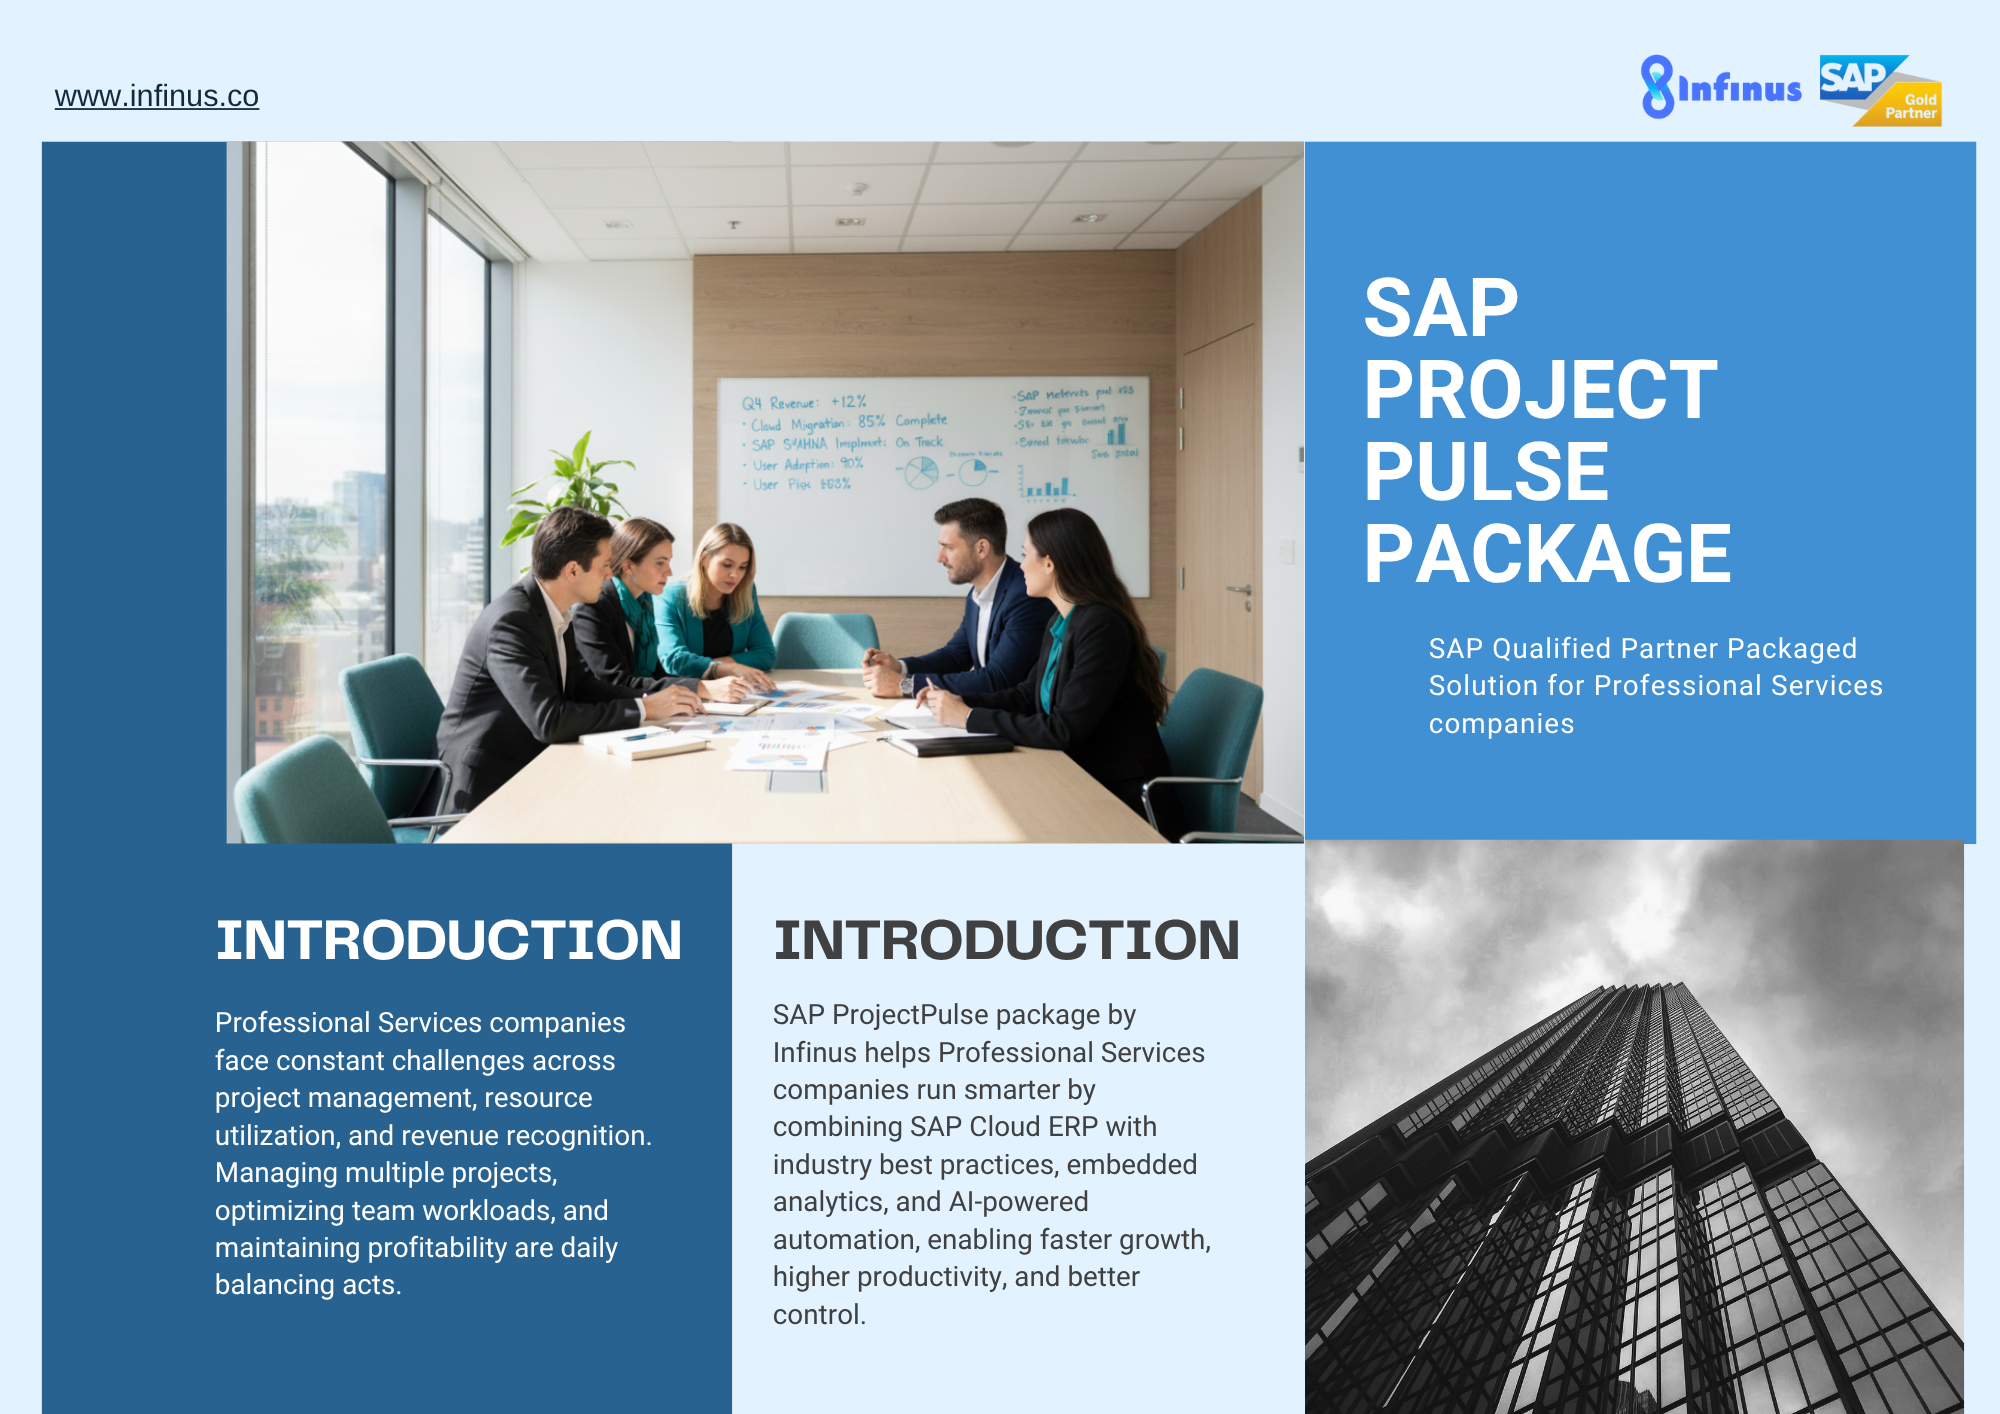
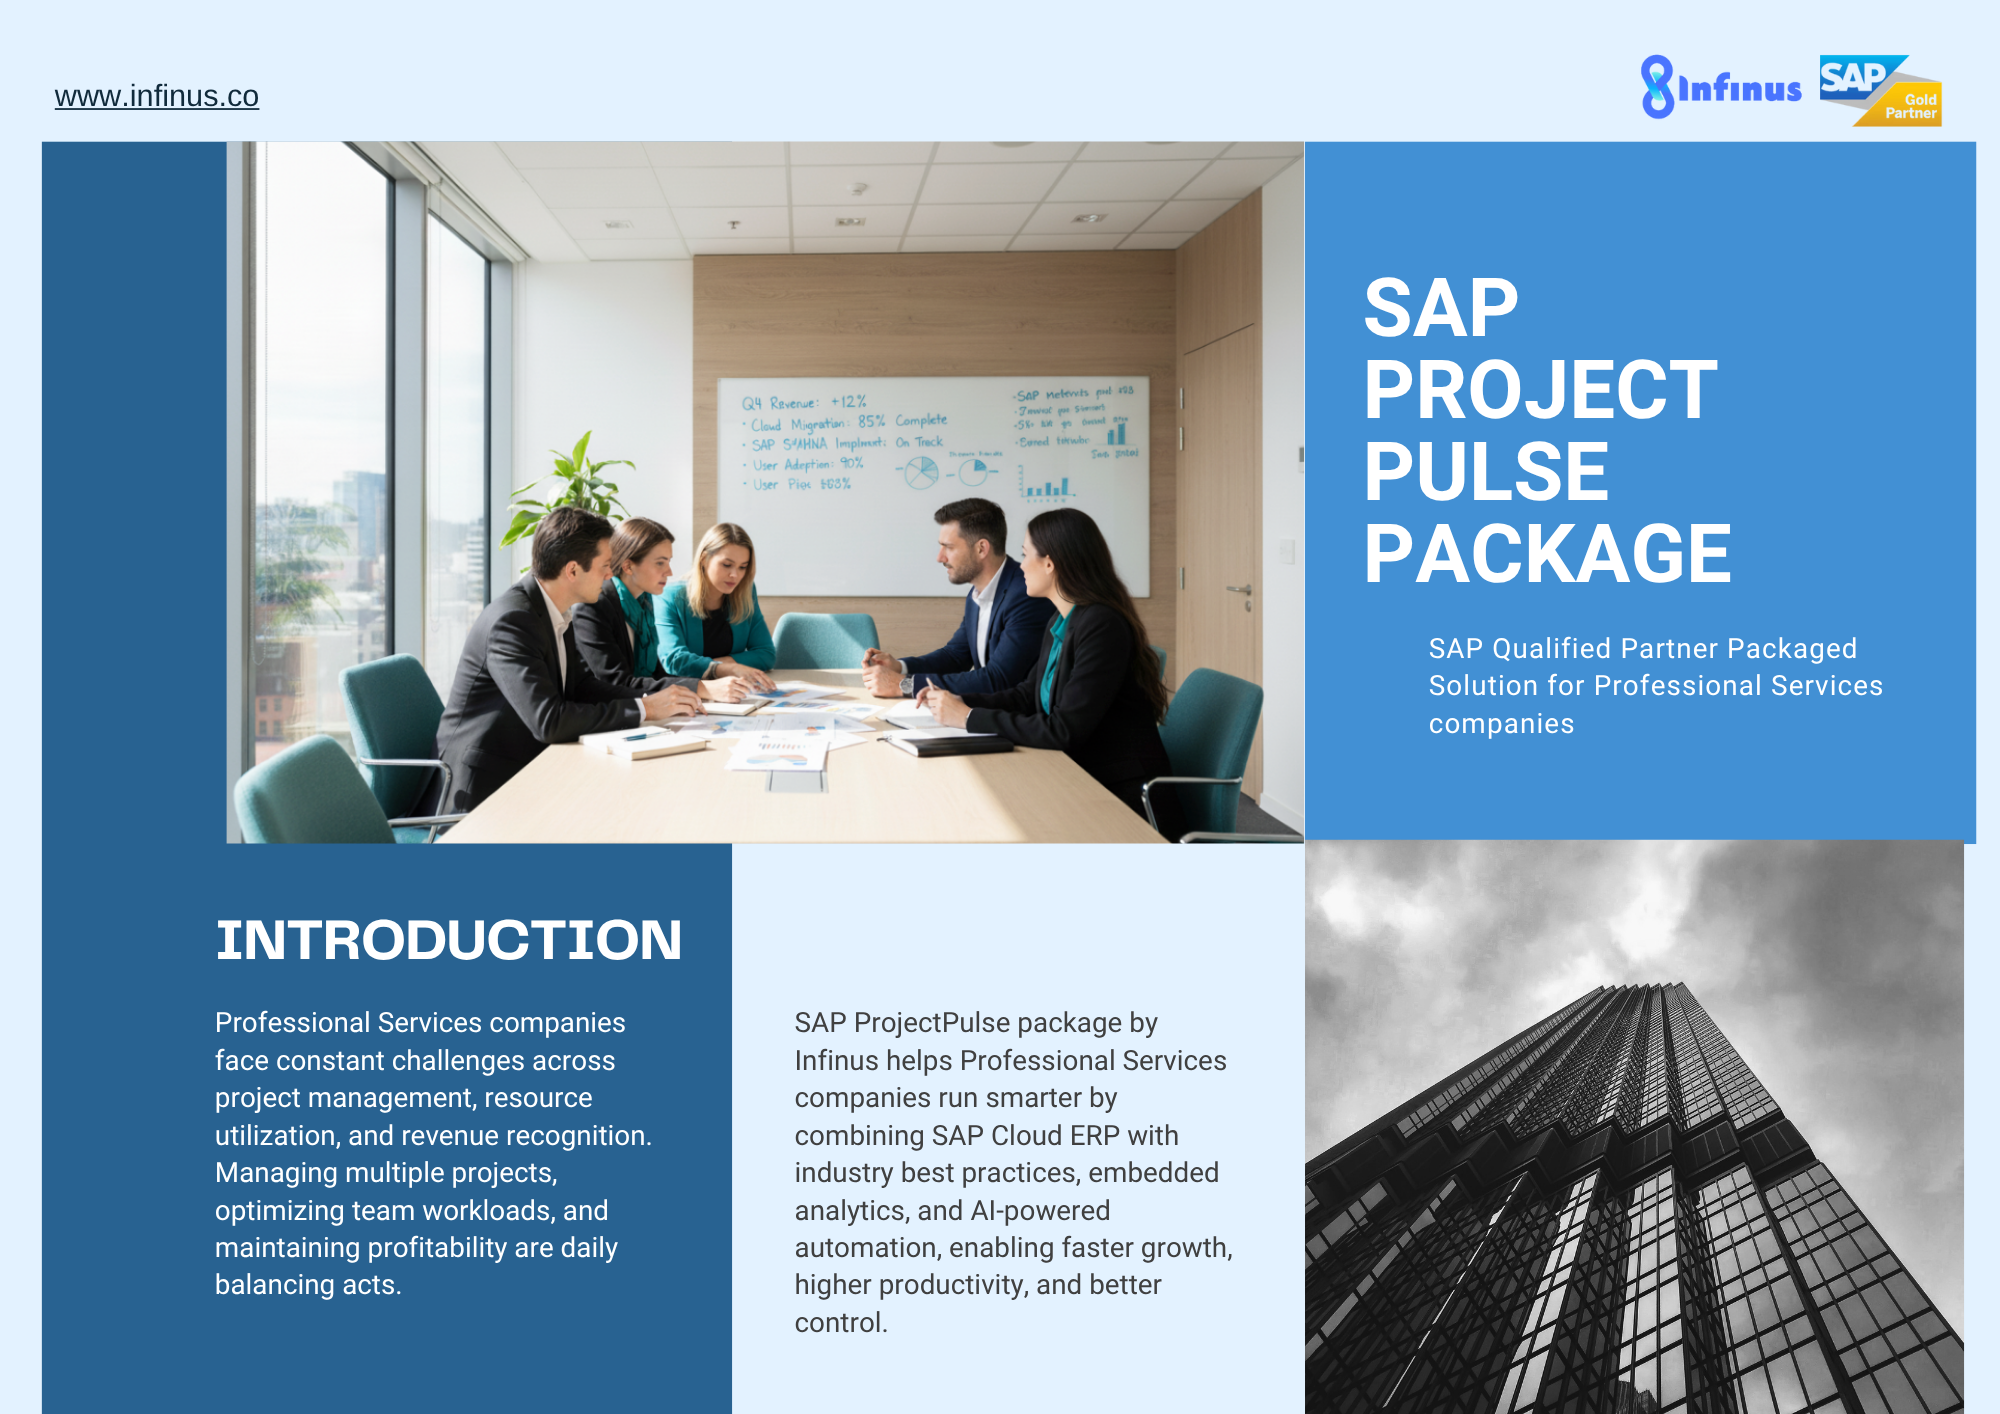
Update Project Pulse: implementation timeline 3-6 months, pricing from EUR 100,000, updated brochure images

Changed region(s): [[0.372, 0.7157, 0.62, 0.9646], [0.372, 0.6535, 0.62, 0.6846]]

diff --git a/app/(site)/projectpulse/brochure/page.tsx b/app/(site)/projectpulse/brochure/page.tsx
@@ -35,7 +35,7 @@ const ProjectPulseBrochurePage = () => {
               </p>
               <div className="mt-6 flex flex-wrap items-center gap-3 text-[11px] text-slate-300">
                 <span className="rounded-full border border-emerald-400/40 bg-emerald-400/10 px-3 py-1">
-                  4–6 month implementation
+                  3–6 month implementation
                 </span>
                 <span className="rounded-full border border-slate-700 bg-slate-900/70 px-3 py-1">
                   500+ prebuilt KPIs &amp; dashboards
@@ -307,13 +307,13 @@ const ProjectPulseBrochurePage = () => {
                 Time-to-value and commercial model
               </h2>
               <p className="mt-3 text-sm text-slate-300">
-                A prescriptive 4–6-month implementation accelerates time-to-value, with a clearly
+                A prescriptive 3–6-month implementation accelerates time-to-value, with a clearly
                 defined base scope and extensions.
               </p>
               <div className="mt-5 grid gap-3 text-xs text-slate-200">
                 <div className="flex items-center justify-between rounded-xl bg-slate-950/80 px-4 py-3">
                   <span className="text-slate-400">Project duration</span>
-                  <span className="font-semibold text-emerald-300">4–6 months</span>
+                  <span className="font-semibold text-emerald-300">3–6 months</span>
                 </div>
                 <div className="flex items-center justify-between rounded-xl bg-slate-950/80 px-4 py-3">
                   <span className="text-slate-400">Cloud subscriptions (from)</span>
@@ -321,7 +321,7 @@ const ProjectPulseBrochurePage = () => {
                 </div>
                 <div className="flex items-center justify-between rounded-xl bg-slate-950/80 px-4 py-3">
                   <span className="text-slate-400">Implementation services (from)</span>
-                  <span className="font-semibold text-emerald-300">€120,000</span>
+                  <span className="font-semibold text-emerald-300">from EUR 100,000</span>
                 </div>
               </div>
               <p className="mt-3 text-[11px] text-slate-500">

diff --git a/app/(site)/projectpulse/_components/ProjectPulseContent.tsx b/app/(site)/projectpulse/_components/ProjectPulseContent.tsx
@@ -24,7 +24,7 @@ const faqItems = [
   },
   {
     question: "How long does implementation take and what is the expected outcome?",
-    answer: "A prescriptive 4 to 6 month implementation accelerates time to value. Net result: real-time projects, aligned resources and predictable margins on a single intelligent cloud platform."
+    answer: "A prescriptive 3 to 6 month implementation accelerates time to value. Net result: real-time projects, aligned resources and predictable margins on a single intelligent cloud platform."
   }
 ];
 
@@ -124,7 +124,7 @@ export function ProjectPulseContent() {
                 Base Scope Coverage
               </h3>
               <p>
-                The base scope covers Finance (AR/AP, closing, treasury, profitability, consolidation), Customer Projects & Billing, Sourcing & Procurement, Sales of Services, SuccessFactors Employee Central, Integration Suite, DRC localizations, and embedded analytics. A prescriptive 4–6-month implementation accelerates time-to-value, with optional extensions (e.g., Sales Cloud, additional SuccessFactors modules) for scale-up.
+                The base scope covers Finance (AR/AP, closing, treasury, profitability, consolidation), Customer Projects & Billing, Sourcing & Procurement, Sales of Services, SuccessFactors Employee Central, Integration Suite, DRC localizations, and embedded analytics. A prescriptive 3–6-month implementation accelerates time-to-value, with optional extensions (e.g., Sales Cloud, additional SuccessFactors modules) for scale-up.
               </p>
             </motion.div>
 

diff --git a/app/(site)/projectpulse/page.tsx b/app/(site)/projectpulse/page.tsx
@@ -32,7 +32,7 @@ const faqItems = [
   },
   {
     question: "How long does implementation take and what is the expected outcome?",
-    answer: "A prescriptive 4 to 6 month implementation accelerates time to value. Net result: real-time projects, aligned resources and predictable margins on a single intelligent cloud platform.",
+    answer: "A prescriptive 3 to 6 month implementation accelerates time to value. Net result: real-time projects, aligned resources and predictable margins on a single intelligent cloud platform.",
   },
 ];
 

diff --git a/app/api/projectpulse/pdf/route.ts b/app/api/projectpulse/pdf/route.ts
@@ -64,7 +64,7 @@ export async function GET(request: NextRequest) {
       headers: {
         'Content-Type': 'application/pdf',
         'Content-Disposition': 'inline; filename="ProjectPulse-Brochure.pdf"',
-        'Cache-Control': 'public, max-age=3600, s-maxage=3600',
+        'Cache-Control': 'public, max-age=300, s-maxage=300',
       },
     });
   } catch (error) {
